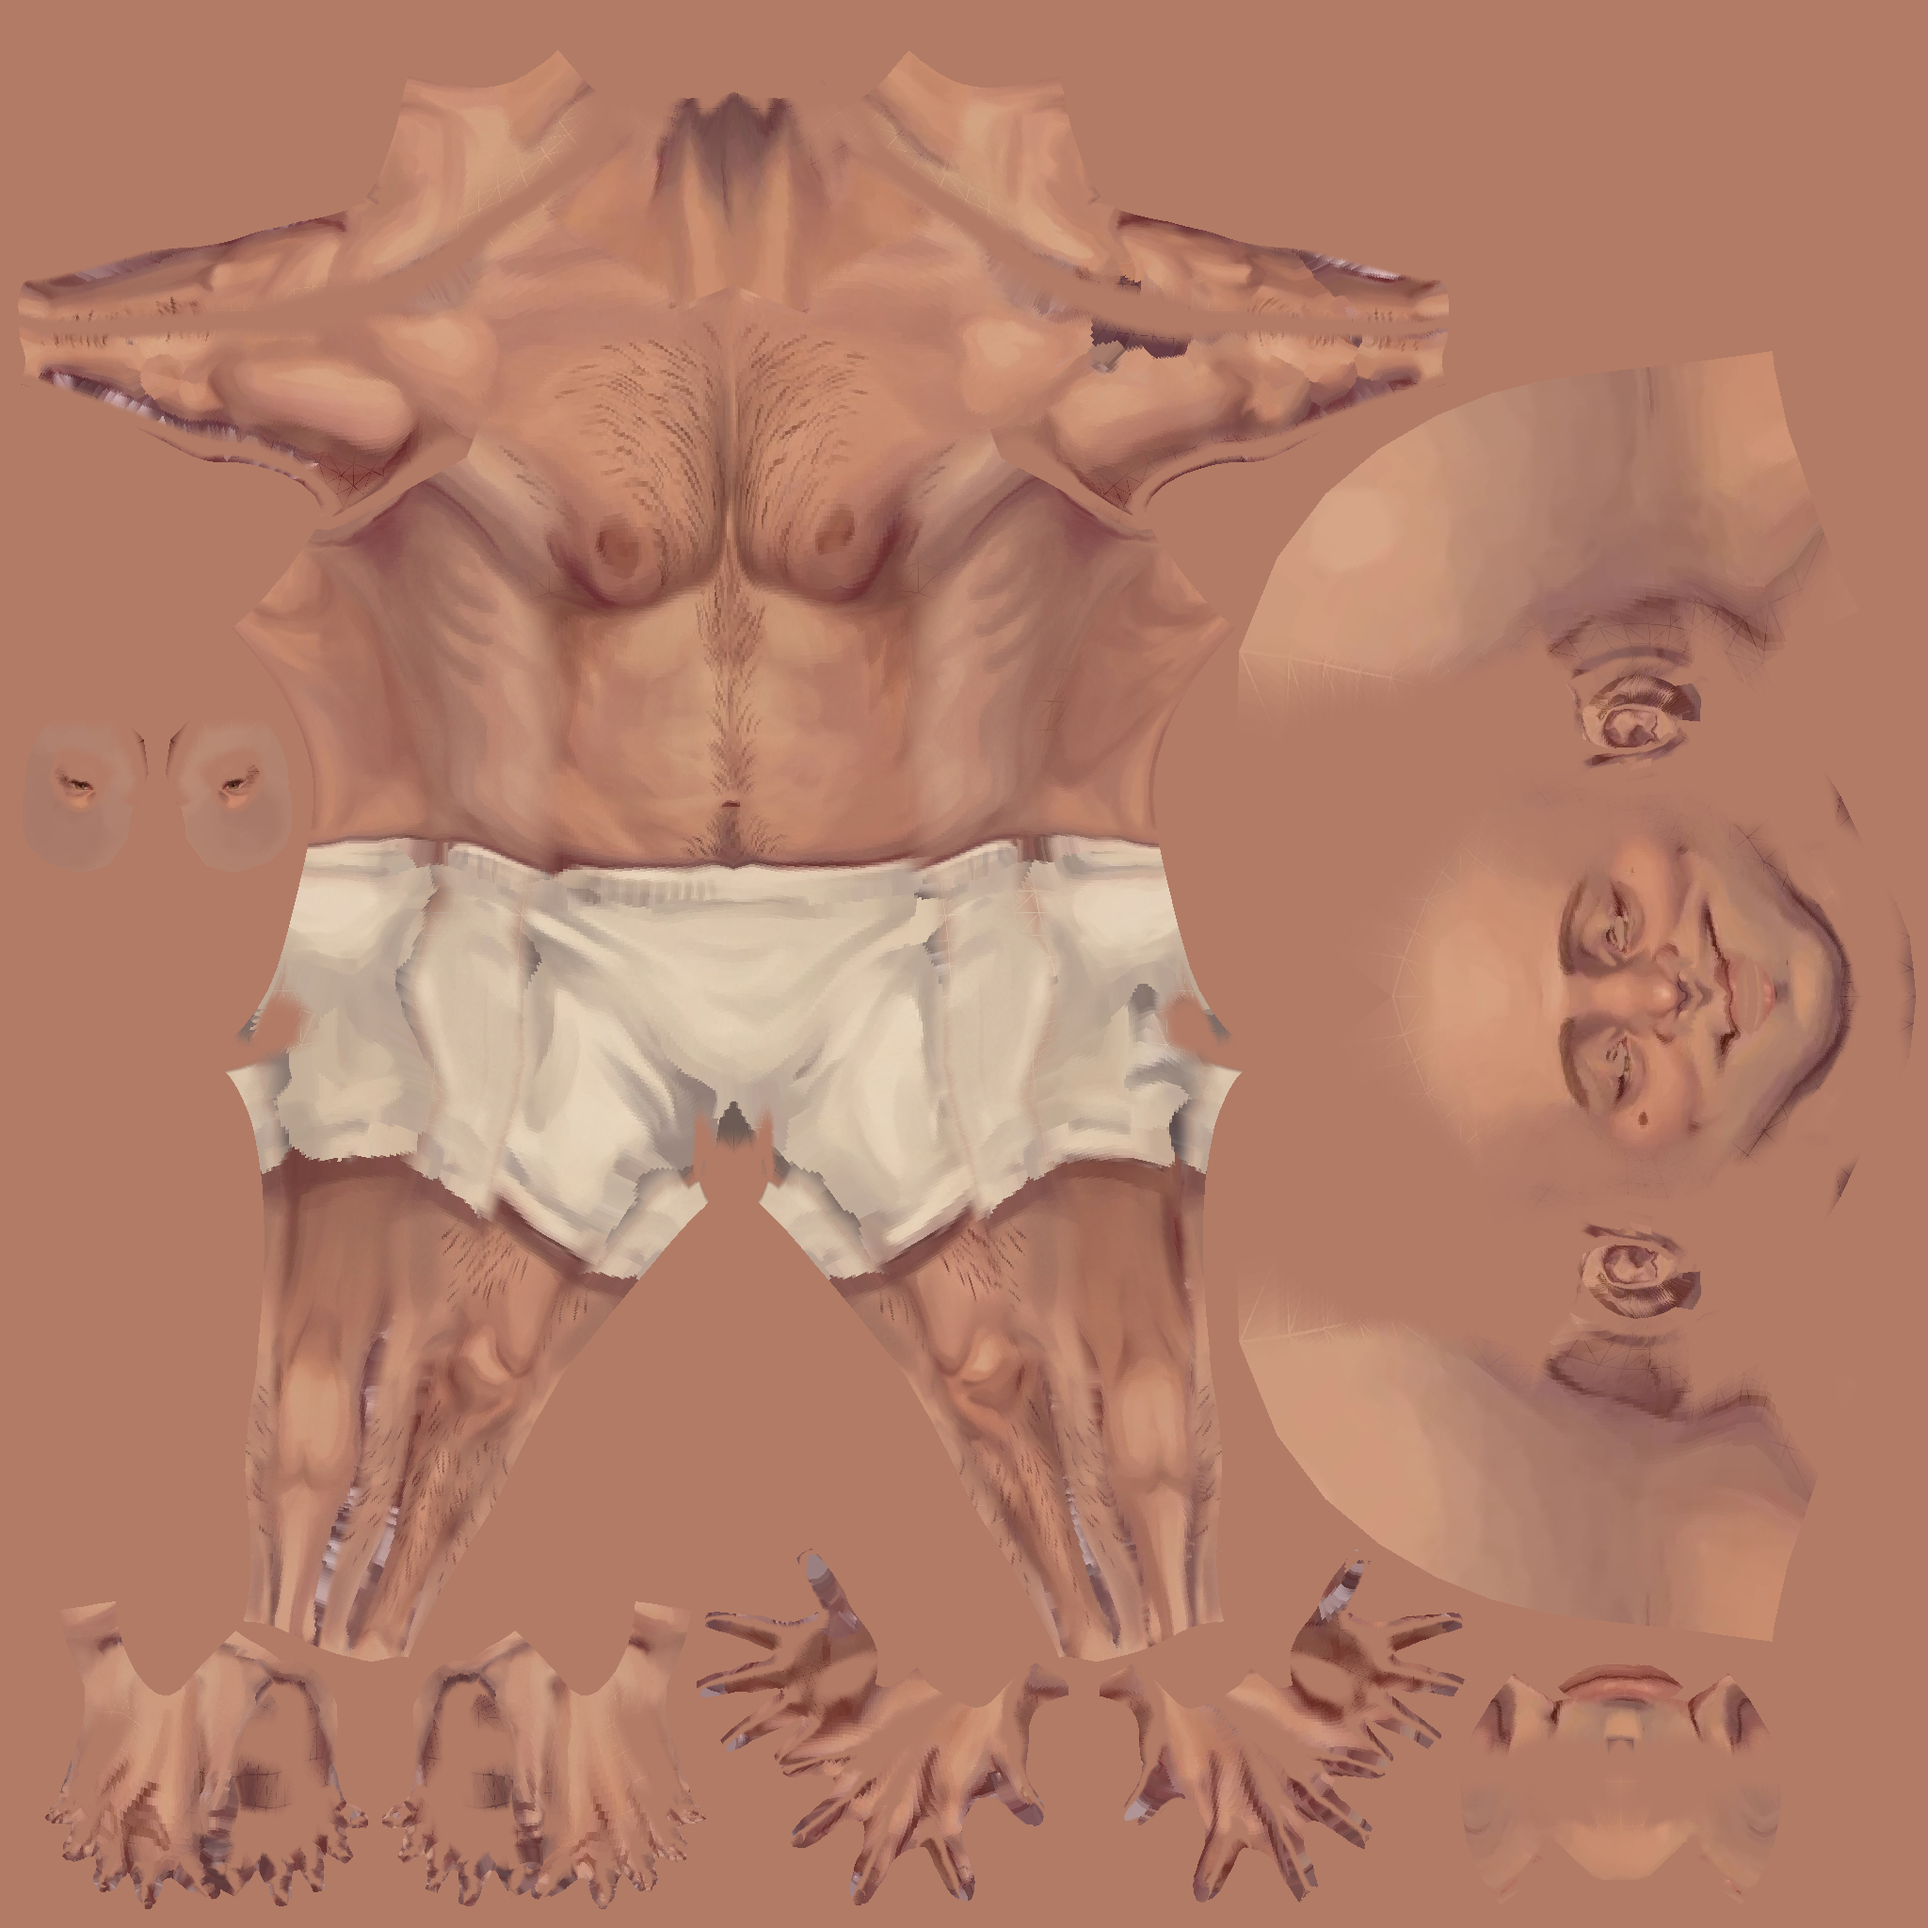
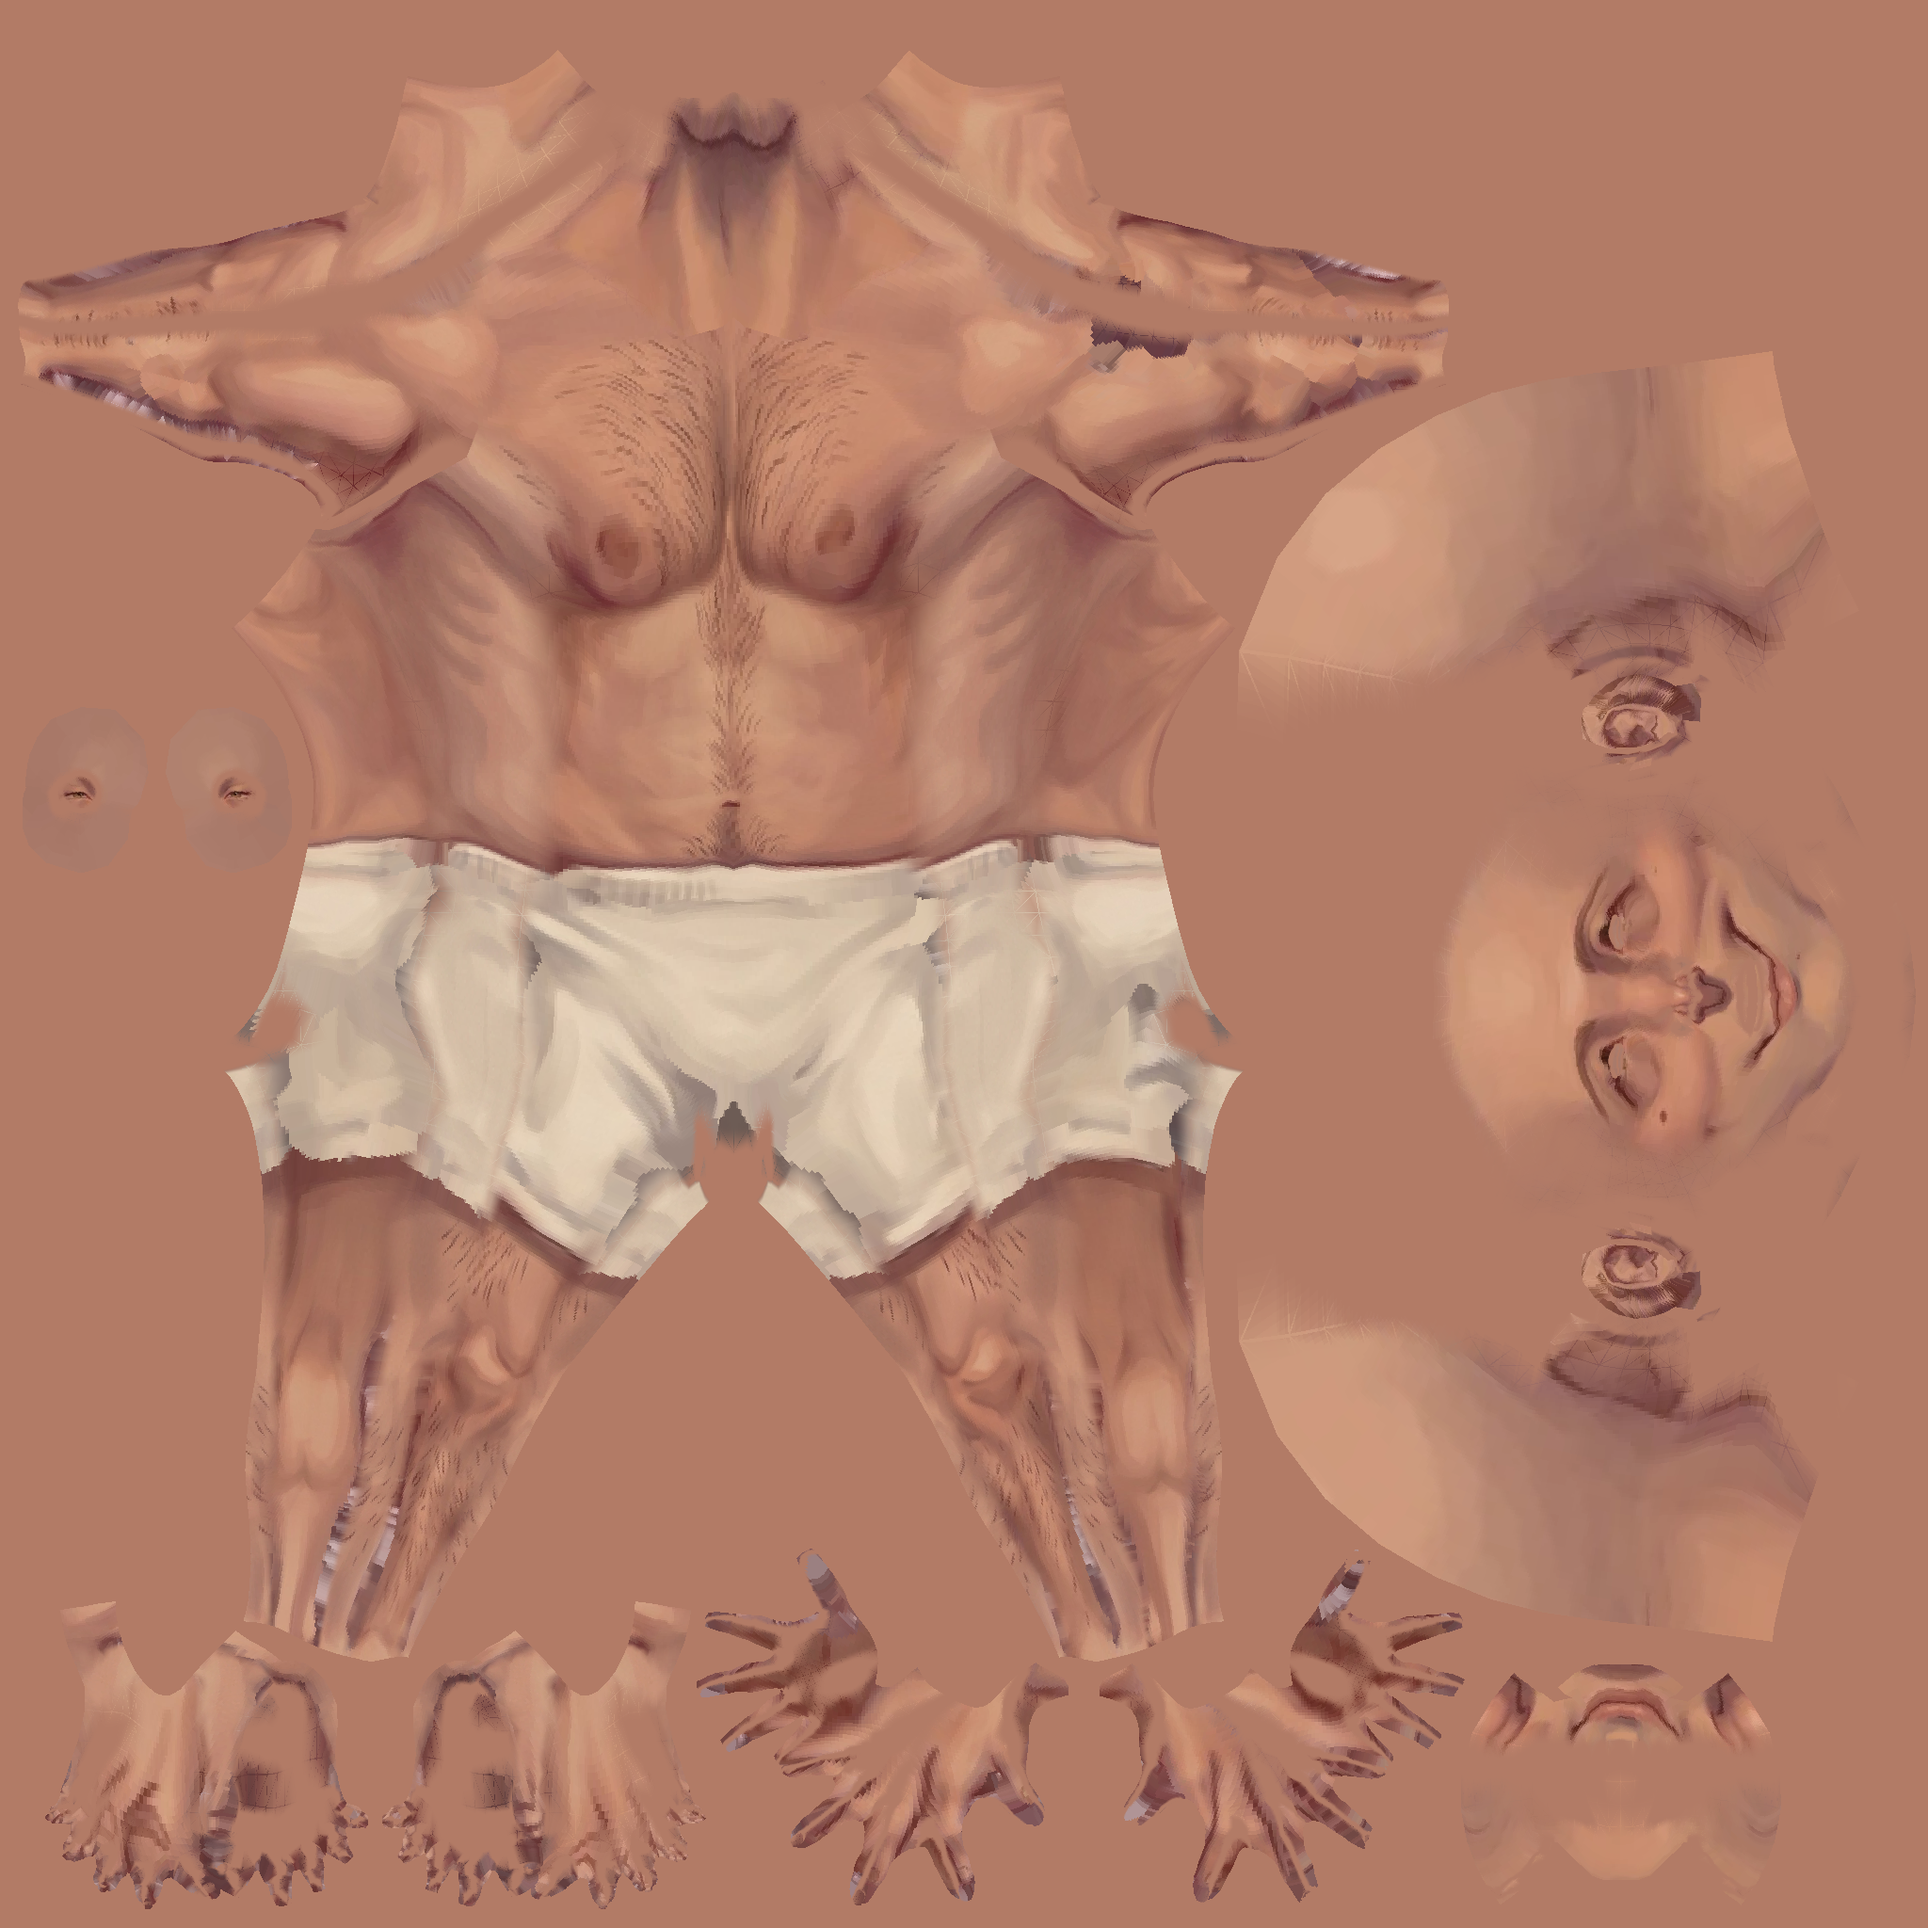
Gulp: figed: one alignment (the nose tip) for overlay, sculpt pictures and paint; the brother's eyes lowered onto the sheet's
Claude-Session: https://claude.ai/code/session_018hhQTWAB4pnnkWVR2X6n6A

diff --git a/tools/figed/paint_project.py b/tools/figed/paint_project.py
@@ -98,9 +98,10 @@ for v in sheet["views"]:
     box = [int(round(c * k)) for c in v["box"]]
     mask = figed_fit.shrink(figed_fit.cut_out(art, box, 0.07), 4)     # in from the drawn outline: no dark lines
     px = (v["chin"] - v["crown"]) * k / high                 # sheet pixels a metre
-    if "nose" in v:                                          # across by the nose, up and down by the crown: reshaping
-        anchor = np.array([nose[0], nose[1], crown[2]])      # the nose must not slide the whole paint up or down
-        at = (v["nose"][0] * k, v["crown"] * k)
+    if "nose" in v:                                          # by the nose tip, as head_overlay.py and the reference
+        anchor, at = nose, (v["nose"][0] * k, v["nose"][1] * k)   # pictures of a sculpt window are: ONE alignment for
+        # everything the user sees (hung from the crown instead, the paint said "eyes too low" while the window's
+        # bible said "too high": the user, 2026-11-20, "his eye is in the wrong spot")
     else:
         anchor, at = crown, (v["centre"] * k, v["crown"] * k)
     # each row's figure: where it starts and ends, so skin just outside a view's outline (the side of the head, seen

diff --git a/tools/figed/README.md b/tools/figed/README.md
@@ -637,3 +637,11 @@ up; a ready-made skin tinted; hand painting): "do the texture projection as a fi
   that window (possibly hand painted) is kept as `work/brother_paint4_user_skin.png`, NOT merged: the skin has
   been re-projected since. Merging hand paint with a new projection is not solved (a hand-paint layer over the
   projection is the likely way).
+- The user (red lines on the profile in the window, bible on): "his eye is in the wrong spot, and his head is
+  shaped slightly odd". The eye: `eye_height` 1.8 -> -1.0. It had been RAISED to meet the paint while the paint
+  was hung from the crown; the window's bible is hung from the nose tip, and by that the eye was a centimetre high.
+  **Everything the user sees is aligned ONE way: by the nose tip** (`head_overlay.py`, the sculpt window's
+  pictures, and `paint_project.py` again). With that, the model's eyes lie on the sheet's in front and profile.
+  The skull: `head-back-scale-depth` 0.9 was tried on a reading of the user's line and taken out again: the overlay
+  shows the model's skull already standing ABOVE and BEHIND the sheet's (crown about 1.5 cm high with the noses
+  together), not short of it. What the user meant by the line is not settled: asked.
